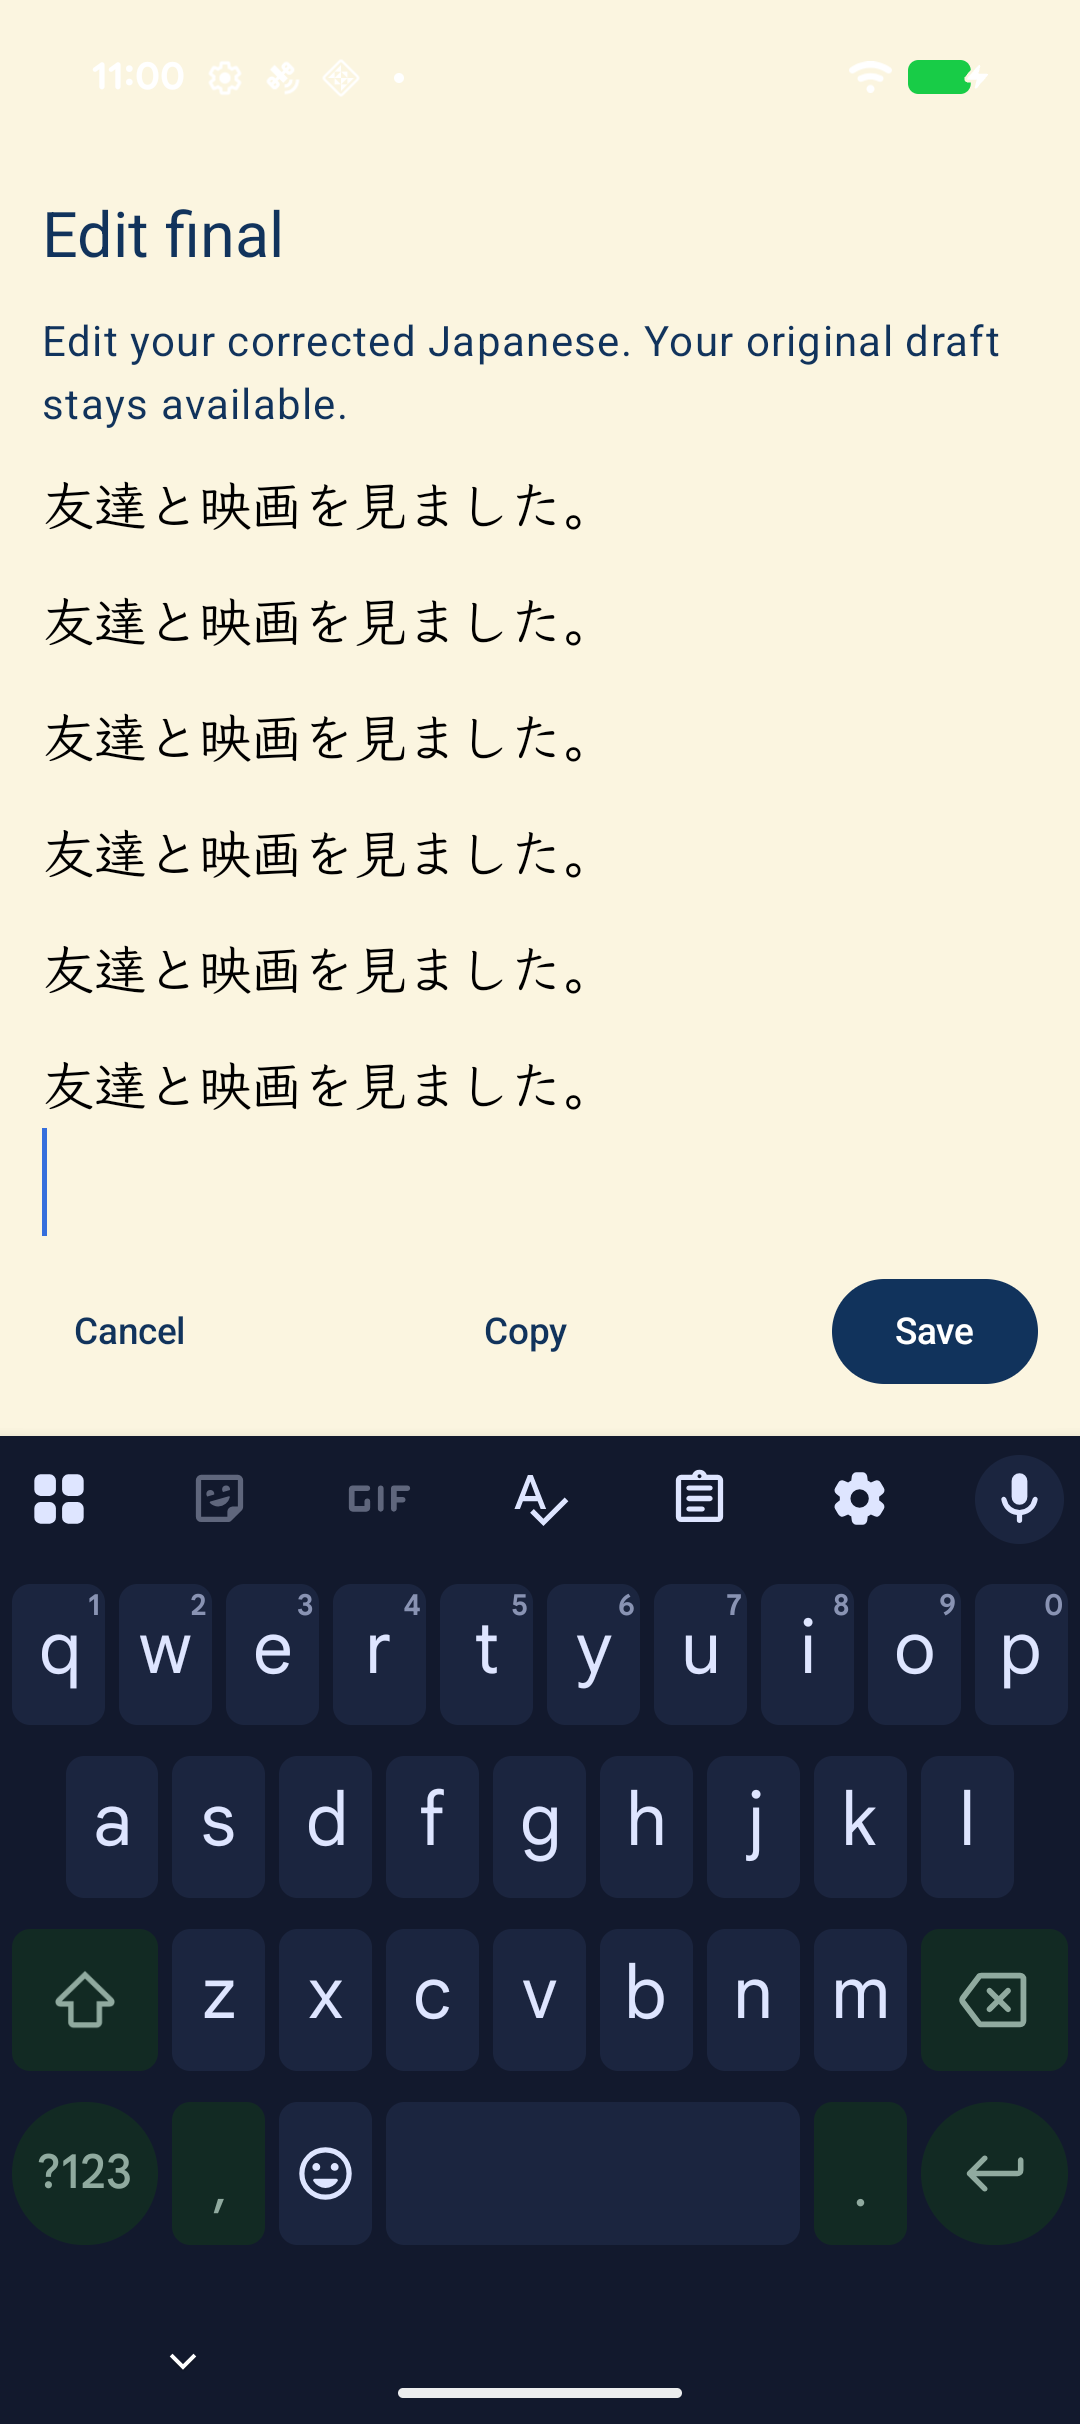
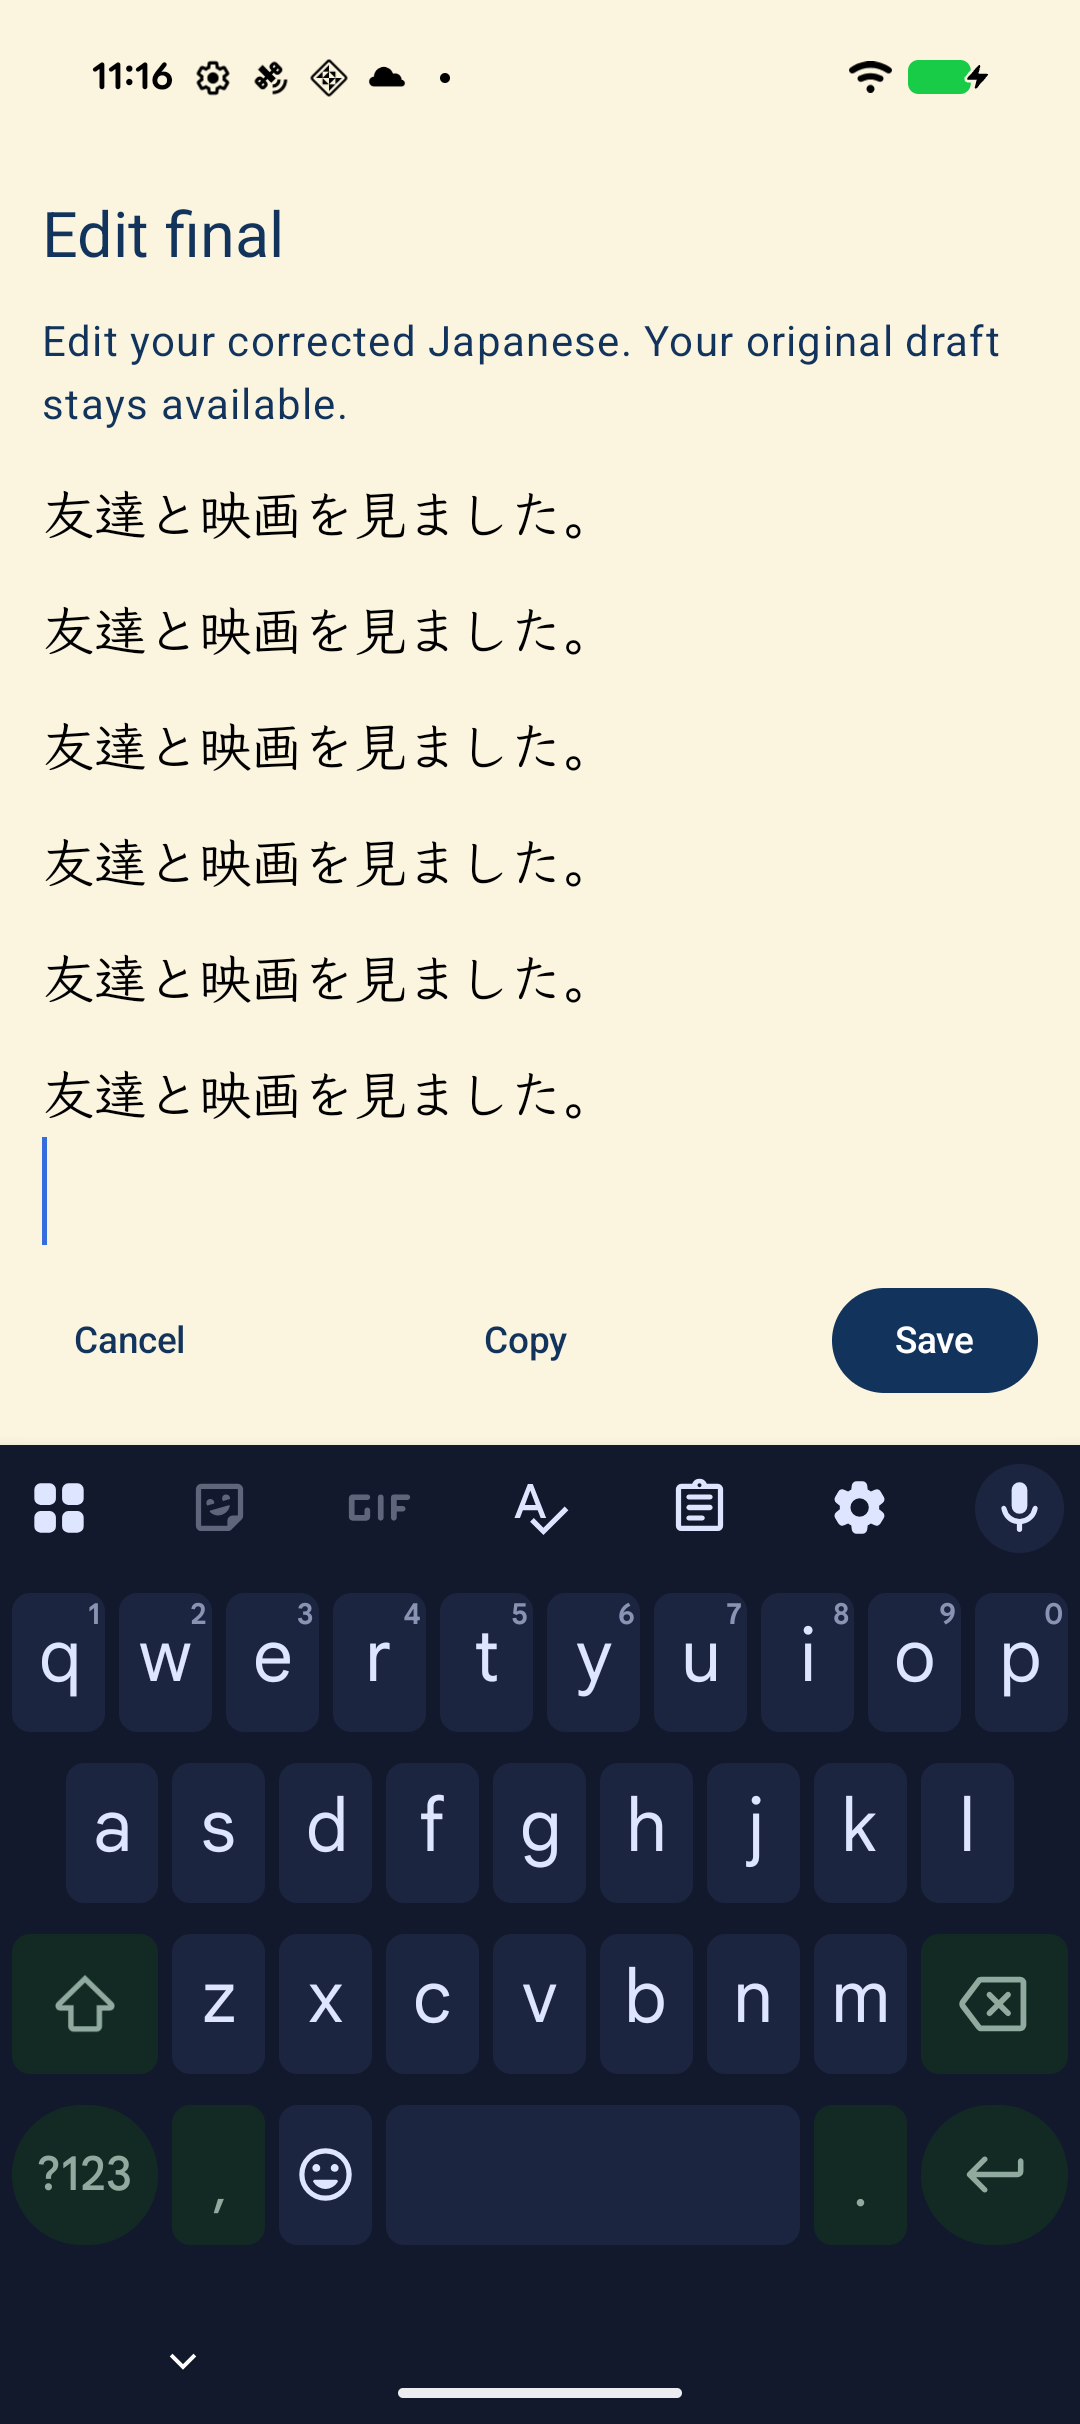
Keep dialog status text readable and synchronize Settings tests

diff --git a/app/src/androidTest/java/com/cdcg/convolab/settings/SettingsUiTest.kt b/app/src/androidTest/java/com/cdcg/convolab/settings/SettingsUiTest.kt
@@ -39,7 +39,8 @@ class SettingsUiTest {
         screenshot(TestOutput.file("settings-profile-keyboard.png"))
         compose.onNodeWithTag("settings-save-profile").performClick()
         compose.waitUntil(5_000) { controller.state.value.account.name == "Naomi Updated" }
-        device.pressBack()
+        // Successful form replacement dismisses its input; Back can navigate away after that.
+        device.waitForIdle()
         compose.onNodeWithText("Change Password").performScrollTo().performClick()
         compose.onNodeWithTag("auth-Current password").performClick().performTextInput("fixture-current")
         compose.onNodeWithTag("auth-New password").performScrollTo().performClick().performTextInput("fixture-new-password")
@@ -60,7 +61,8 @@ class SettingsUiTest {
         screenshot(TestOutput.file("settings-wanikani-token-keyboard.png"))
         compose.onNodeWithTag("settings-connect-wanikani").performClick()
         compose.waitUntil(5_000) { controller.state.value.known.connected && !controller.state.value.busy }
-        device.pressBack()
+        // Successful form replacement dismisses its input; Back can navigate away after that.
+        device.waitForIdle()
         compose.onNodeWithText("Known kanji: 2").assertExists()
         compose.onNodeWithText("Daily vocabulary transfer").assertDoesNotExist()
         screenshot(TestOutput.file("settings-wanikani-connected.png"))

diff --git a/app/src/main/java/com/cdcg/convolab/settings/SettingsScreen.kt b/app/src/main/java/com/cdcg/convolab/settings/SettingsScreen.kt
@@ -1,5 +1,6 @@
 package com.cdcg.convolab.settings
 
+import com.cdcg.convolab.ui.LightDialogStatusBar
 import androidx.compose.foundation.layout.*
 import androidx.compose.foundation.rememberScrollState
 import androidx.compose.foundation.verticalScroll
@@ -28,6 +29,7 @@ fun SettingsScreen(state: SettingsState, controller: SettingsController, actions
     var page by rememberSaveable(state.account.id) { mutableStateOf(SettingsPage.Overview) }
     val close = { if (page == SettingsPage.Overview) actions.close() else { page = SettingsPage.Overview; controller.clearMessage() } }
     Dialog(onDismissRequest = close, properties = DialogProperties(decorFitsSystemWindows = false, usePlatformDefaultWidth = false)) {
+        LightDialogStatusBar()
         Surface(Modifier.fillMaxSize(), color = JournalBrand.Paper, contentColor = JournalBrand.Ink) {
             Column(Modifier.fillMaxSize().safeDrawingPadding().imePadding().padding(horizontal = 24.dp)) {
                 Row(Modifier.fillMaxWidth().padding(vertical = 16.dp), horizontalArrangement = Arrangement.SpaceBetween) {

diff --git a/app/src/main/java/com/cdcg/convolab/ui/LightDialogStatusBar.kt b/app/src/main/java/com/cdcg/convolab/ui/LightDialogStatusBar.kt
@@ -1,0 +1,20 @@
+package com.cdcg.convolab.ui
+
+import androidx.compose.runtime.Composable
+import androidx.compose.runtime.DisposableEffect
+import androidx.compose.ui.platform.LocalView
+import androidx.compose.ui.window.DialogWindowProvider
+import androidx.core.view.WindowCompat
+
+/** Journal dialogs use light paper even when the device theme is dark. */
+@Composable
+fun LightDialogStatusBar() {
+    val view = LocalView.current
+    DisposableEffect(view) {
+        val window = (view.parent as? DialogWindowProvider)?.window
+        val controller = window?.let { WindowCompat.getInsetsController(it, view) }
+        val previous = controller?.isAppearanceLightStatusBars
+        controller?.isAppearanceLightStatusBars = true
+        onDispose { if (previous != null) controller.isAppearanceLightStatusBars = previous }
+    }
+}

diff --git a/app/src/main/java/com/cdcg/convolab/journal/feedback/FinalEditSheet.kt b/app/src/main/java/com/cdcg/convolab/journal/feedback/FinalEditSheet.kt
@@ -1,5 +1,6 @@
 package com.cdcg.convolab.journal.feedback
 
+import com.cdcg.convolab.ui.LightDialogStatusBar
 import com.cdcg.convolab.journal.appearance.LocalJournalTypography
 import androidx.compose.foundation.layout.*
 import androidx.compose.foundation.rememberScrollState
@@ -24,6 +25,7 @@ fun FinalEditSheet(presentation: FeedbackPresentation) {
     val input = remember { JournalInputHost() }
     CompositionLocalProvider(LocalInputHost provides input) {
         Dialog(onDismissRequest = {}, properties = DialogProperties(decorFitsSystemWindows = false, usePlatformDefaultWidth = false, dismissOnBackPress = false)) {
+            LightDialogStatusBar()
             Surface(Modifier.fillMaxSize()) { FinalEditorLayout(presentation) }
         }
     }

diff --git a/docs/android-port/lifecycle.md b/docs/android-port/lifecycle.md
@@ -19,9 +19,13 @@ Verification includes matching-session expiration and re-login, replacement-acco
 
 ## Keyboard and full-screen windows
 
-The final editor and Settings explicitly let Compose handle system and keyboard insets. This prevents Android from panning the whole dialog above the status bar while Compose also reserves keyboard space. A long-entry regression checks that the final-editor heading stays visible and Save stays above the keyboard.
+The final editor and Settings explicitly let Compose handle system and keyboard insets. This prevents Android from panning the whole dialog above the status bar while Compose also reserves keyboard space. A long-entry regression checks that the final-editor heading stays visible and Save stays above the keyboard. Dialog status-bar icons use dark foregrounds over the light paper. See Android’s [DialogProperties contract](https://developer.android.com/reference/kotlin/androidx/compose/ui/window/DialogProperties) for explicit inset ownership.
 
 ![Final editor with the keyboard open](lifecycle-screenshots/pixel-final-editor-keyboard.png)
+
+## Integrated validation
+
+At 7e62078, all 89 instrumented tests passed on both Pixel 10a and the API 36 emulator, alongside 136 JVM tests, lint and debug/release builds. The complete suite covers real native inference, learning, cancellation, Gboard, Journal workflows, account isolation, Settings and real Media3 playback using public fixtures. APK inspection verified the 72,298,816-byte model, 3,393 dictionary files, ARM64/x86_64 libraries, production API and no backup/cleartext traffic. Release excludes test fixtures. Final merged-main installation is tracked in #17.
 
 ## Remaining acceptance
 

diff --git a/docs/android-port/audio.md b/docs/android-port/audio.md
@@ -14,4 +14,4 @@ Build, lint and JVM checks pass. Nine audio Android tests pass on the emulator a
 - [Paused after sentence navigation](audio-screenshots/journal-audio-paused.png)
 - [Voice picker](audio-screenshots/journal-audio-voices.png)
 
-The screenshots isolate playback for repeatable checks. Full Notebook parity, font scaling, dark paper and final visual polish remain in #14/#17. Compare with the audio/voice captures in [the iOS manifest](../ios-reference/2026-11-20/README.md).
+The screenshots isolate playback for repeatable checks. Notebook font scaling and adaptive layouts are covered by #14. The Journal deliberately keeps light paper like iOS, even under a dark system theme. Human listening and final acceptance remain in #17. Compare with the audio/voice captures in [the iOS manifest](../ios-reference/2026-11-20/README.md).
